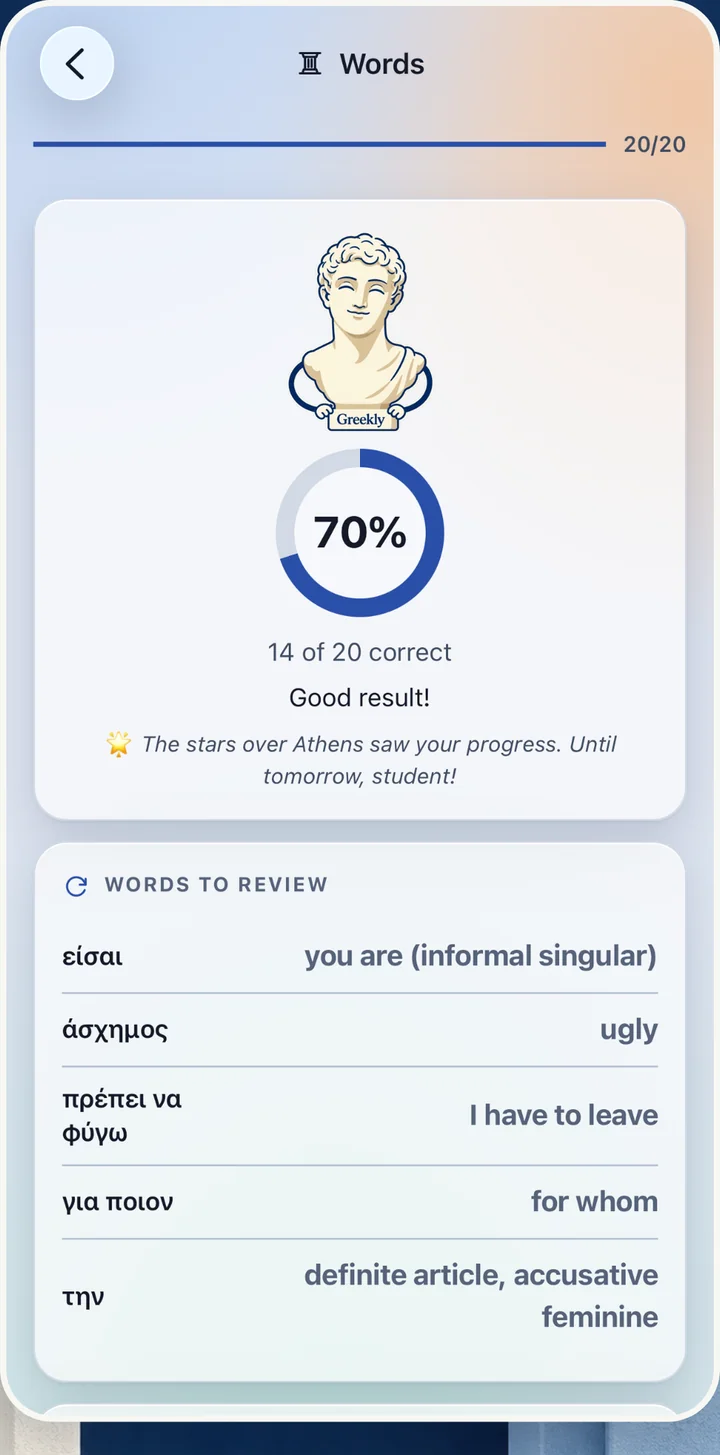
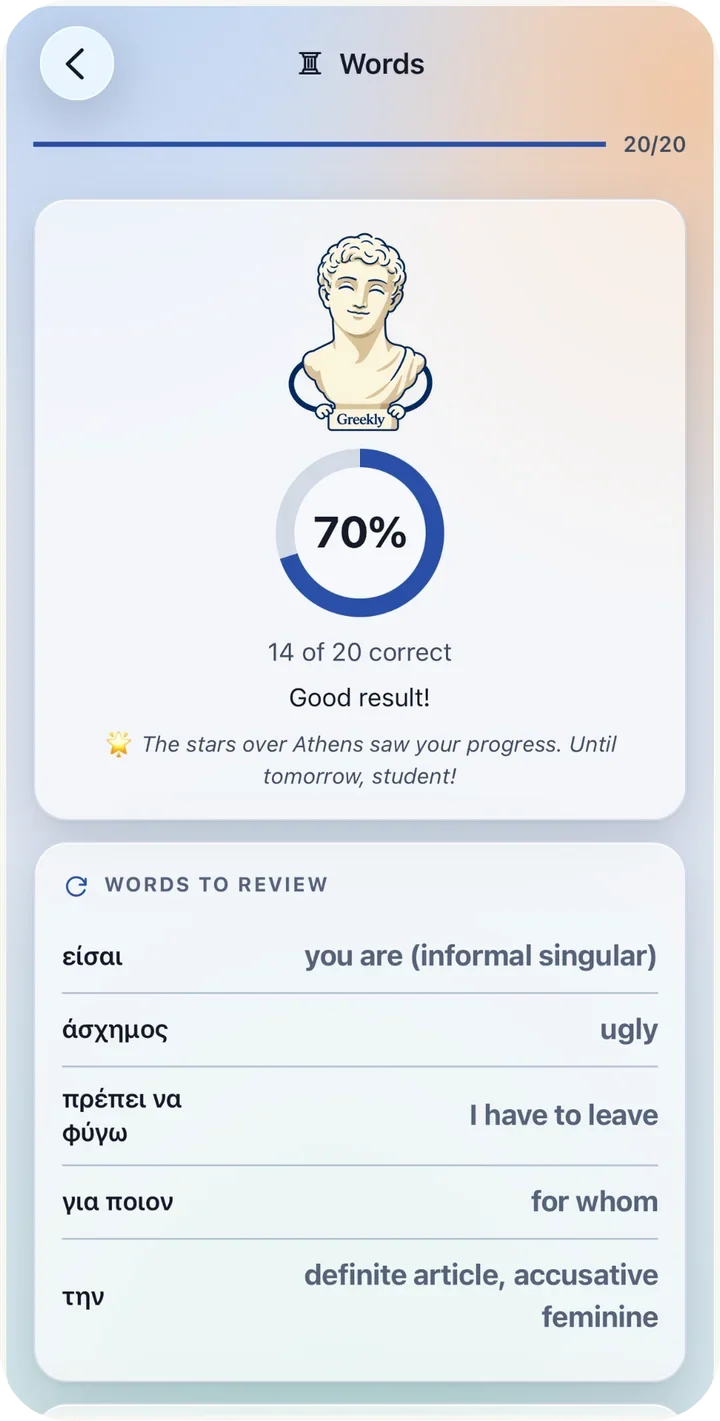
Tidy the hero and footer, fix the phone card crops
- Re-crop the six phone card images to the card's own edge (720x1421) and
  mask the corners with alpha, so no screenshot background leaks in at the
  bottom or the corners; phone containers now use a radius that matches
  the card's own corner
- Give hero and CTA buttons a shared 56px height
- Reduce the hero meta chips to price and iOS version (plus interface
  language on the Russian page)
- Shorten the company line in all footers
- Update README notes on the crop

Claude-Session: https://claude.ai/code/session_017C4HGoZ85cr9x9ht1Vw84G

diff --git a/assets/style.css b/assets/style.css
@@ -117,13 +117,13 @@ strong { font-weight: 700; }
 .btn-row { display: flex; flex-wrap: wrap; gap: 12px; margin-top: 28px; align-items: center; }
 .btn {
   display: inline-flex; align-items: center; gap: 10px;
-  padding: 13px 22px; border-radius: 14px;
+  padding: 12px 22px; border-radius: 14px; min-height: 56px;
   font-weight: 700; font-size: 1rem; line-height: 1.2;
   border: 1px solid transparent; transition: transform .15s ease, background .15s ease;
 }
 .btn:hover { text-decoration: none; transform: translateY(-1px); }
 .btn svg { width: 20px; height: 20px; flex: none; }
-.btn-apple { background: #000; color: #fff; border-color: #000; }
+.btn-apple { background: #000; color: #fff; border-color: #000; padding-top: 9px; padding-bottom: 9px; }
 .btn-apple:hover { background: #1c1c1e; }
 .btn-apple small { display: block; font-size: .68rem; font-weight: 600; opacity: .85; letter-spacing: .02em; }
 .btn-apple span { display: block; font-size: 1.05rem; line-height: 1.1; }
@@ -159,12 +159,10 @@ strong { font-weight: 700; }
 .hero-meta b { color: #fff; font-weight: 800; }
 
 .hero-visual { position: relative; align-self: end; height: 620px; }
+.phone { --pw: 320px; width: var(--pw); border-radius: calc(var(--pw) * .0972); overflow: hidden; }
 .hero-visual .phone {
-  position: absolute; bottom: -80px; width: 320px;
-  border-radius: 34px; overflow: hidden;
+  position: absolute; bottom: -80px;
   box-shadow: var(--shadow-lg);
-  border: 1px solid rgba(255,255,255,.35);
-  background: var(--sky);
 }
 .hero-visual .phone img { width: 100%; }
 .hero-visual .phone-main { left: 50%; transform: translateX(-62%); z-index: 2; }
@@ -236,8 +234,8 @@ strong { font-weight: 700; }
 .feature-list span { color: var(--text-muted); font-size: .97rem; }
 .feature-visual { position: relative; display: flex; justify-content: center; }
 .feature-visual .phone {
-  width: min(340px, 100%); border-radius: 34px; overflow: hidden;
-  box-shadow: 0 30px 70px rgba(13, 38, 76, .22); border: 1px solid var(--border); background: var(--sky);
+  --pw: min(340px, 100%);
+  box-shadow: 0 30px 70px rgba(13, 38, 76, .22);
 }
 .feature-visual .phone.tilt { transform: rotate(-3deg); }
 .feature-visual .blob {
@@ -331,19 +329,19 @@ strong { font-weight: 700; }
   .hero .wrap { grid-template-columns: 1fr; gap: 0; padding-top: 56px; }
   .hero-copy { padding-bottom: 32px; }
   .hero-visual { height: 460px; }
-  .hero-visual .phone { width: 260px; bottom: -110px; }
+  .hero-visual .phone { --pw: 260px; bottom: -110px; }
   .hero-visual .phone-back { display: none; }
   .hero-visual .phone-main { transform: translateX(-50%); }
   .feature .wrap { grid-template-columns: 1fr; gap: 36px; }
   .feature.flip .wrap > :first-child { order: 0; }
-  .feature-visual .phone { width: min(300px, 100%); }
+  .feature-visual .phone { --pw: min(300px, 100%); }
   .support .wrap { grid-template-columns: 1fr; gap: 28px; }
 }
 @media (max-width: 560px) {
   body { font-size: 16px; }
   .wrap { padding: 0 18px; }
   .hero-visual { height: 380px; }
-  .hero-visual .phone { width: 230px; bottom: -120px; }
+  .hero-visual .phone { --pw: 230px; bottom: -120px; }
   .btn-row .btn { width: 100%; justify-content: center; }
   .screens { padding: 56px 0 40px; }
   .screens figure { flex-basis: 236px; }

diff --git a/ru/index.html b/ru/index.html
@@ -96,15 +96,13 @@
       <div class="hero-meta">
         <span><b>Бесплатно</b>, есть встроенные покупки</span>
         <span>iOS <b>17.4+</b></span>
-        <span>Всего <b>3,2 МБ</b></span>
-        <span>Возраст <b>4+</b></span>
         <span>Интерфейс <b>на английском</b></span>
       </div>
     </div>
     <div class="hero-visual" aria-hidden="true">
       <div class="glow"></div>
-      <div class="phone phone-back"><img src="/assets/screens/s4-phone.webp" alt="" width="720" height="1455" loading="eager"></div>
-      <div class="phone phone-main"><img src="/assets/screens/s1-phone.webp" alt="" width="720" height="1455" loading="eager" fetchpriority="high"></div>
+      <div class="phone phone-back"><img src="/assets/screens/s4-phone.webp" alt="" width="720" height="1421" loading="eager"></div>
+      <div class="phone phone-main"><img src="/assets/screens/s1-phone.webp" alt="" width="720" height="1421" loading="eager" fetchpriority="high"></div>
     </div>
   </div>
 </section>
@@ -176,7 +174,7 @@
     </div>
     <div class="feature-visual">
       <div class="blob"></div>
-      <div class="phone tilt"><img src="/assets/screens/s3-phone.webp" width="720" height="1455" alt="Экран конструктора предложений: расставьте греческие слова по порядку с подсказками." loading="lazy"></div>
+      <div class="phone tilt"><img src="/assets/screens/s3-phone.webp" width="720" height="1421" alt="Экран конструктора предложений: расставьте греческие слова по порядку с подсказками." loading="lazy"></div>
     </div>
   </div>
 </section>
@@ -194,7 +192,7 @@
     </div>
     <div class="feature-visual">
       <div class="blob blue"></div>
-      <div class="phone"><img src="/assets/screens/s6-phone.webp" width="720" height="1455" alt="Экран статистики: точность, серия, слабые и сильные темы." loading="lazy"></div>
+      <div class="phone"><img src="/assets/screens/s6-phone.webp" width="720" height="1421" alt="Экран статистики: точность, серия, слабые и сильные темы." loading="lazy"></div>
     </div>
   </div>
 </section>
@@ -357,8 +355,7 @@
         <a href="/" hreflang="en" lang="en">English</a>
       </div>
     </div>
-    <p>© 2026 WCBO LLC (WhiteCat Blogger Outreach LLC), Бивертон, Орегон 97005, США. Greekly - тренажёр современного греческого, не учитель и не сертификат.</p>
-    <p>Apple, логотип Apple и App Store - товарные знаки Apple Inc. Telegram - товарный знак Telegram FZ-LLC.</p>
+    <p>© 2026 WCBO LLC, Бивертон, Орегон, США. Apple, App Store и Telegram - товарные знаки их владельцев.</p>
   </div>
 </footer>
 

diff --git a/index.html b/index.html
@@ -95,15 +95,12 @@
       <div class="hero-meta">
         <span><b>Free</b> with in-app purchases</span>
         <span>iOS <b>17.4+</b></span>
-        <span>Only <b>3.2 MB</b></span>
-        <span>Age <b>4+</b></span>
-        <span>Category <b>Education</b></span>
       </div>
     </div>
     <div class="hero-visual" aria-hidden="true">
       <div class="glow"></div>
-      <div class="phone phone-back"><img src="/assets/screens/s4-phone.webp" alt="" width="720" height="1455" loading="eager"></div>
-      <div class="phone phone-main"><img src="/assets/screens/s1-phone.webp" alt="" width="720" height="1455" loading="eager" fetchpriority="high"></div>
+      <div class="phone phone-back"><img src="/assets/screens/s4-phone.webp" alt="" width="720" height="1421" loading="eager"></div>
+      <div class="phone phone-main"><img src="/assets/screens/s1-phone.webp" alt="" width="720" height="1421" loading="eager" fetchpriority="high"></div>
     </div>
   </div>
 </section>
@@ -175,7 +172,7 @@
     </div>
     <div class="feature-visual">
       <div class="blob"></div>
-      <div class="phone tilt"><img src="/assets/screens/s3-phone.webp" width="720" height="1455" alt="Sentence constructor screen: put Greek words in order with hints to guide you." loading="lazy"></div>
+      <div class="phone tilt"><img src="/assets/screens/s3-phone.webp" width="720" height="1421" alt="Sentence constructor screen: put Greek words in order with hints to guide you." loading="lazy"></div>
     </div>
   </div>
 </section>
@@ -193,7 +190,7 @@
     </div>
     <div class="feature-visual">
       <div class="blob blue"></div>
-      <div class="phone"><img src="/assets/screens/s6-phone.webp" width="720" height="1455" alt="Statistics screen: accuracy, streak and weak and strong topics." loading="lazy"></div>
+      <div class="phone"><img src="/assets/screens/s6-phone.webp" width="720" height="1421" alt="Statistics screen: accuracy, streak and weak and strong topics." loading="lazy"></div>
     </div>
   </div>
 </section>
@@ -352,8 +349,7 @@
         <a href="/ru/" hreflang="ru" lang="ru">Русский</a>
       </div>
     </div>
-    <p>© 2026 WCBO LLC (WhiteCat Blogger Outreach LLC), Beaverton, Oregon 97005, United States. Greekly is a practice tool for Modern Greek, not a teacher and not a certification.</p>
-    <p>Apple, the Apple logo and App Store are trademarks of Apple Inc. Telegram is a trademark of Telegram FZ-LLC.</p>
+    <p>© 2026 WCBO LLC, Beaverton, Oregon, USA. Apple, App Store and Telegram are trademarks of their respective owners.</p>
   </div>
 </footer>
 

diff --git a/privacy/index.html b/privacy/index.html
@@ -128,7 +128,7 @@
         <a href="/ru/" hreflang="ru" lang="ru">Русский</a>
       </div>
     </div>
-    <p>© 2026 WCBO LLC (WhiteCat Blogger Outreach LLC), Beaverton, Oregon 97005, United States. Greekly is a practice tool for Modern Greek, not a teacher and not a certification.</p>
+    <p>© 2026 WCBO LLC, Beaverton, Oregon, USA.</p>
   </div>
 </footer>
 

diff --git a/terms/index.html b/terms/index.html
@@ -104,7 +104,7 @@
         <a href="/ru/" hreflang="ru" lang="ru">Русский</a>
       </div>
     </div>
-    <p>© 2026 WCBO LLC (WhiteCat Blogger Outreach LLC), Beaverton, Oregon 97005, United States. Greekly is a practice tool for Modern Greek, not a teacher and not a certification.</p>
+    <p>© 2026 WCBO LLC, Beaverton, Oregon, USA.</p>
   </div>
 </footer>
 

diff --git a/404.html b/404.html
@@ -45,7 +45,7 @@
         <a href="/ru/" hreflang="ru" lang="ru">Русский</a>
       </div>
     </div>
-    <p>© 2026 WCBO LLC (WhiteCat Blogger Outreach LLC), Beaverton, Oregon 97005, United States. Greekly is a practice tool for Modern Greek, not a teacher and not a certification.</p>
+    <p>© 2026 WCBO LLC, Beaverton, Oregon, USA.</p>
   </div>
 </footer>
 

diff --git a/README.md b/README.md
@@ -13,7 +13,7 @@ terms/index.html           Terms of Use (English)
 404.html                   Not-found page
 assets/style.css           All styles (light + dark theme, responsive, self-hosted font)
 assets/fonts/              Manrope variable font, woff2 subsets (latin, latin-ext, greek, cyrillic)
-assets/screens/            App Store screenshots: sN.webp (640w), sN-sm.webp (360w), sN-phone.webp (phone crop)
+assets/screens/            App Store screenshots: sN.webp (640w), sN-sm.webp (360w), sN-phone.webp (phone card, 720x1421, rounded corners with alpha)
 assets/greekly-icon.jpg    App icon, 512x512 source
 assets/icon-512.png        App icon with rounded corners (brand mark, JSON-LD image)
 assets/apple-touch-icon.png, favicon-32.png, favicon-64.png
@@ -52,4 +52,5 @@ company, WCBO LLC, never an individual developer.
 
 To refresh the screenshots, download the six App Store images at 1242x2688, then regenerate
 `assets/screens/` (640w and 360w full frames, plus a 720w crop of the phone card at
-x 115..1127, y 642..2688) and `assets/og-image.jpg`.
+x 115..1127, y 642..2688, trimmed to the card's bottom edge at 720x1421 with a 70px rounded
+corner mask saved as WebP alpha) and `assets/og-image.jpg`.
